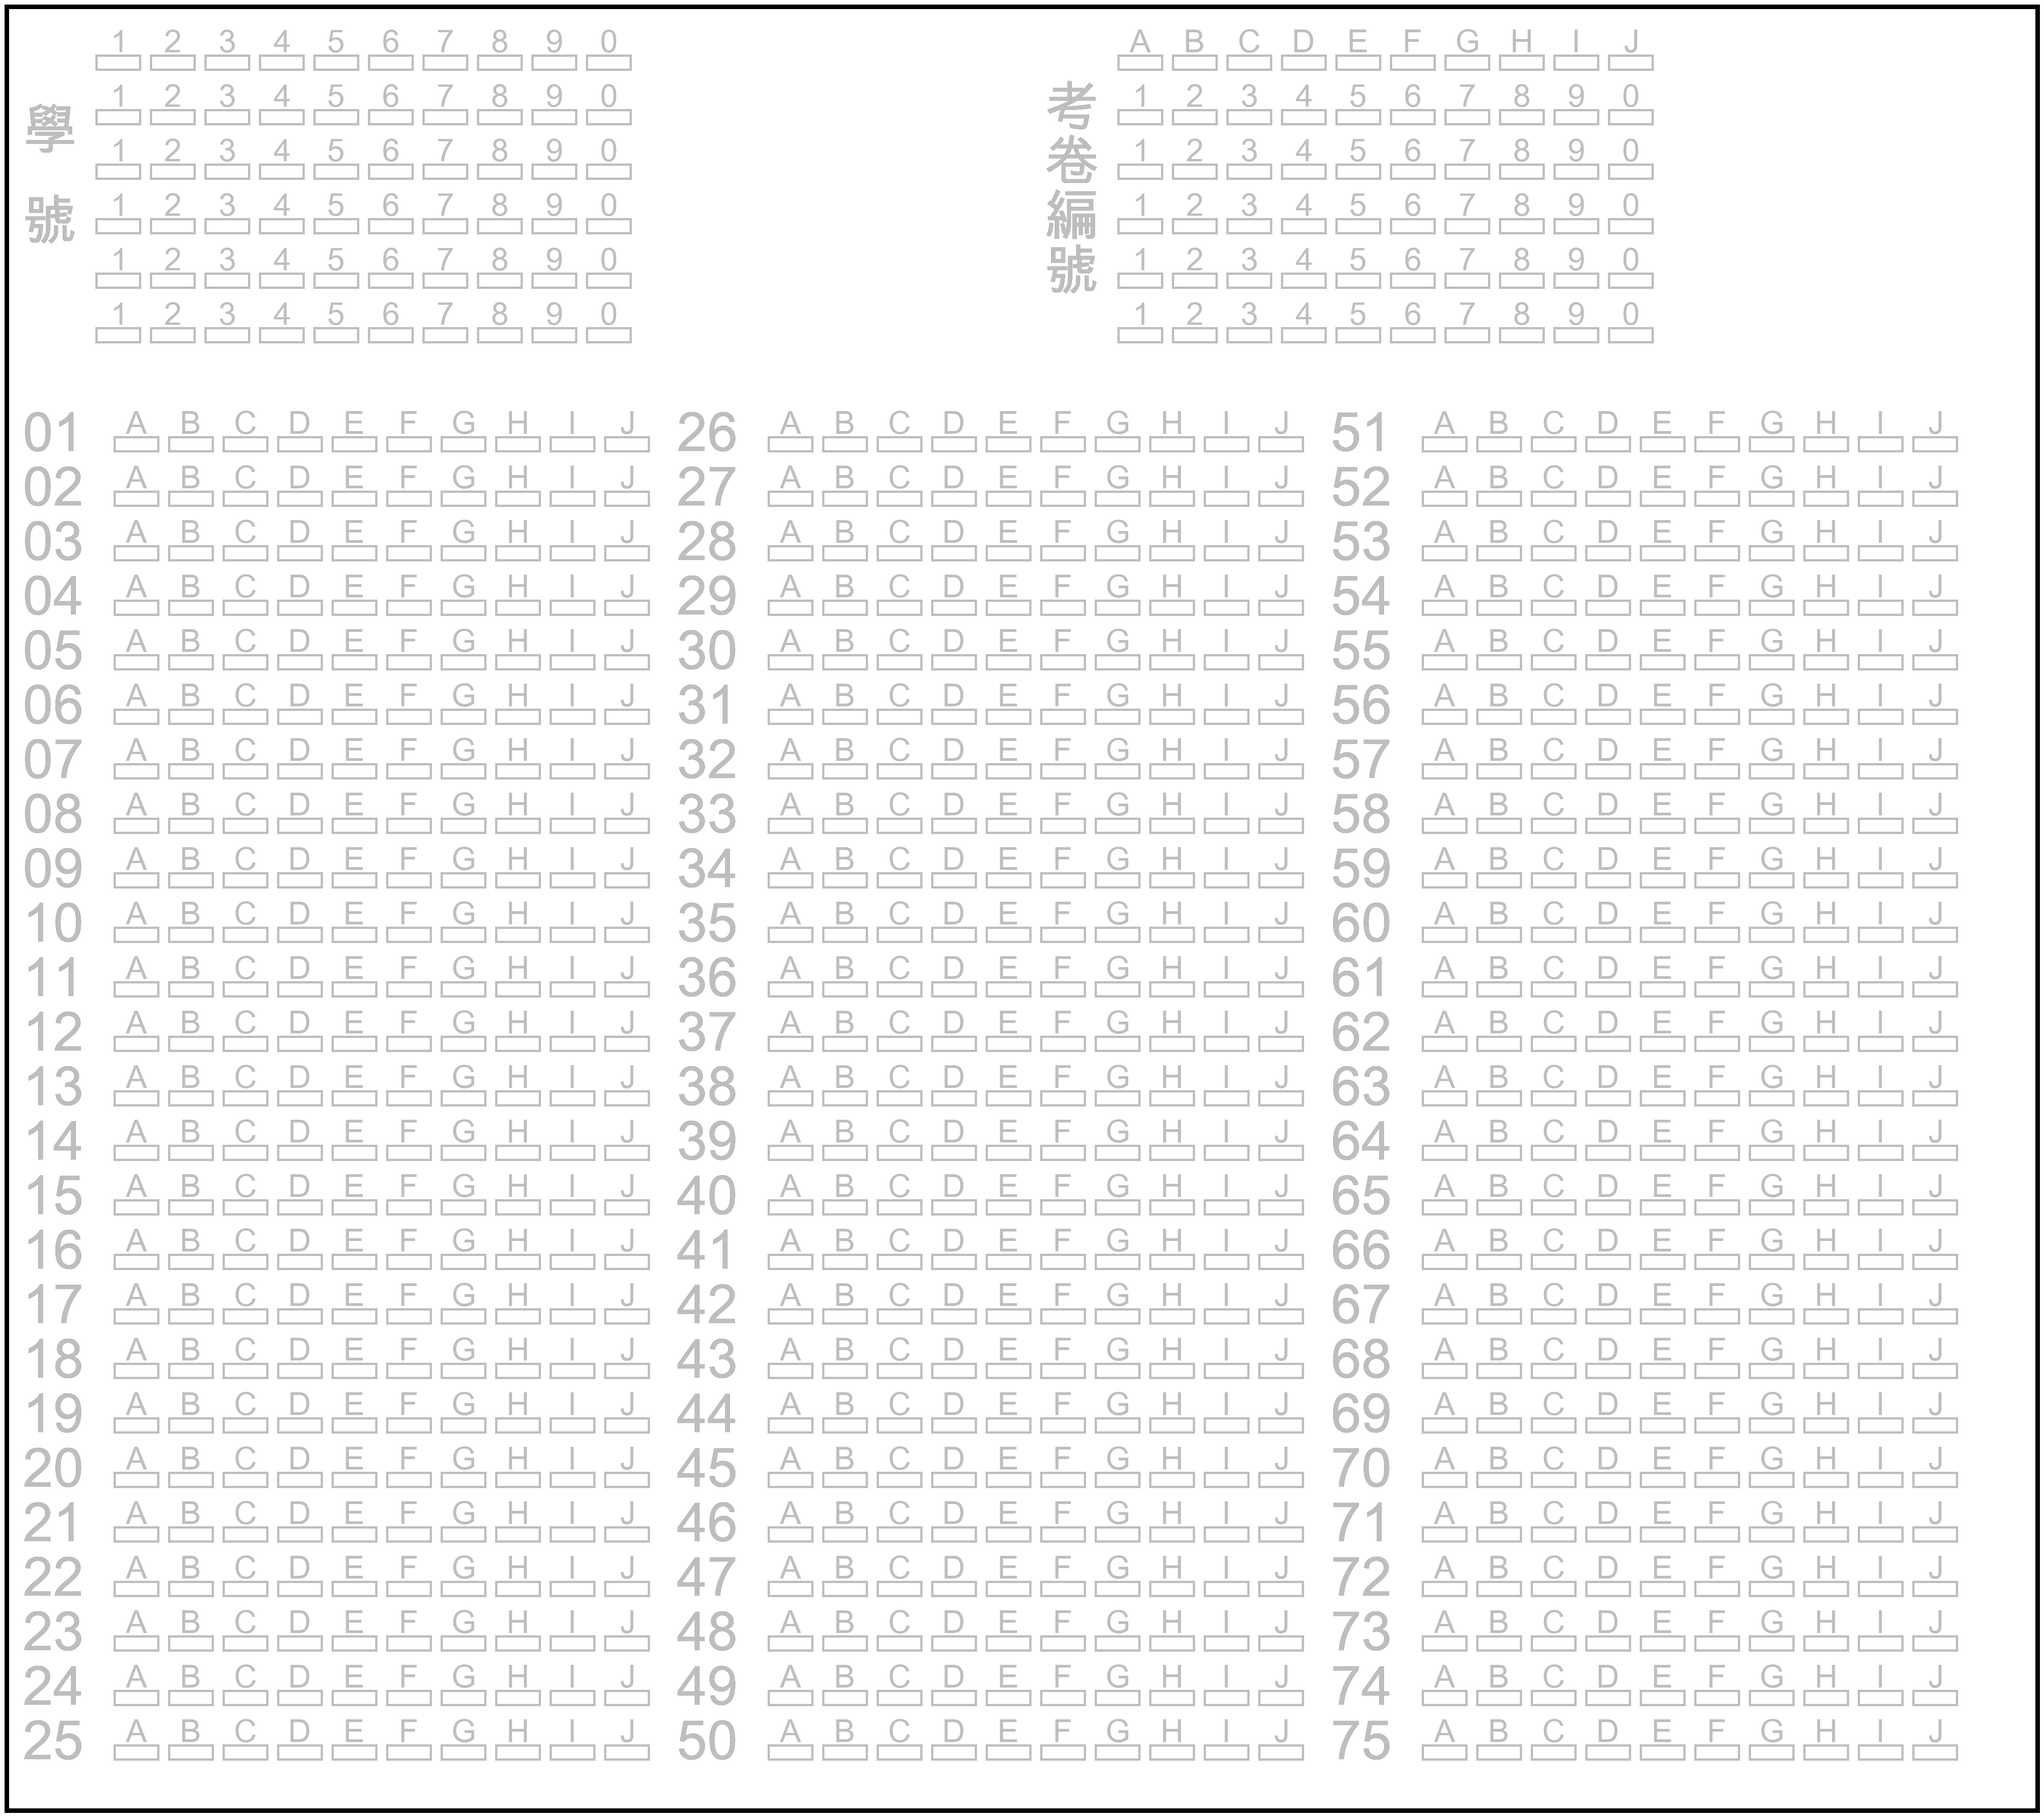
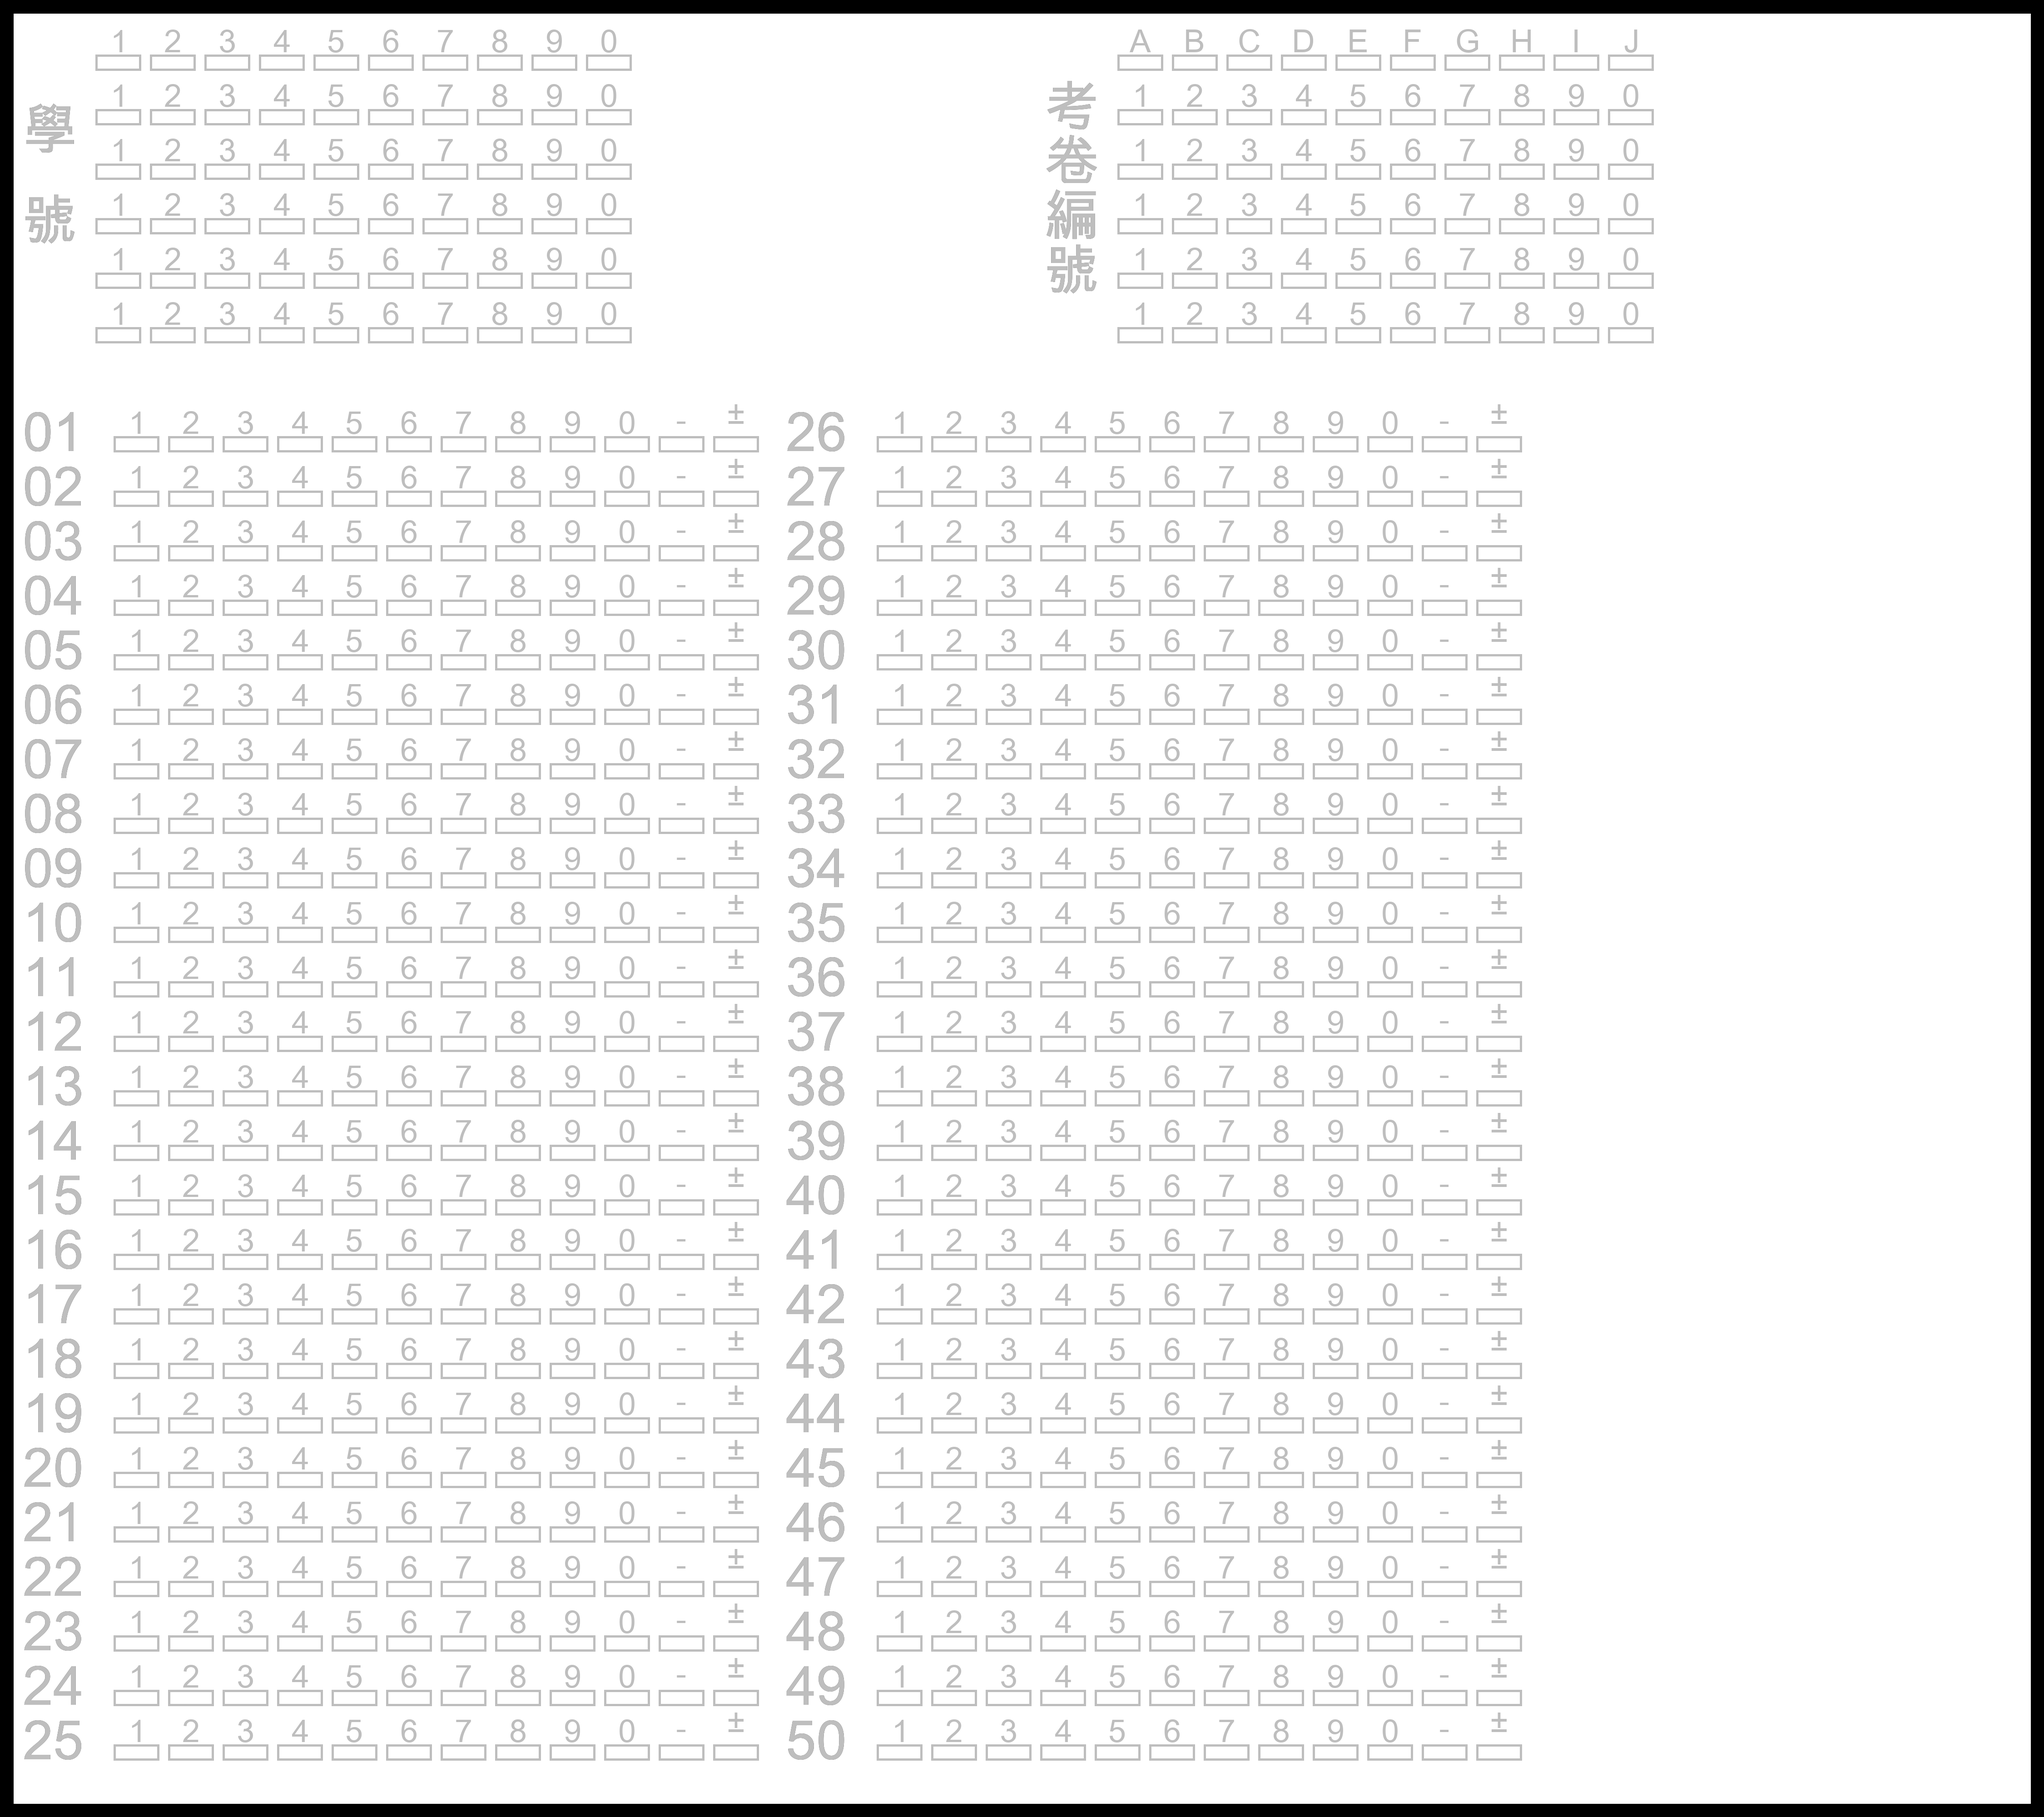
math

Changed region(s): [[0.0, 0.0, 1.0, 1.0], [0.2489, 0.4062, 0.28, 0.7188]]

diff --git a/model.py b/model.py
@@ -3,7 +3,7 @@ from PIL import Image, ImageDraw, ImageFont
 import cv2
 import numpy as np
 import os.path
-from . import check, word
+import check, word
 
 class Model():
 
@@ -68,7 +68,8 @@ class Model():
             for i,f in enumerate(files):
                 # assert os.path.exists(f), "Noooooooo!"
                 if not os.path.exists(f) :
-                    self.wp.draw_word_in_circle(f[-5],path=path)
+                    self.wp.draw_word_with_rectangle(f[-5],path=path)
+                    # self.wp.draw_word_in_circle(f[-5],path=path)
             images = list(map(Image.open, files))
         widths, heights = zip(*(i.size for i in images))
         total_width = sum(widths)

diff --git a/test.py b/test.py
@@ -3,7 +3,7 @@ from model import *
 model = Model()
 model.studentID()
 model.testID()
-model.quest(75 ,'ABCDEFGHIJ')
+model.quest(50 ,'1234567890-±')
 model.border()
 model.save()
 
